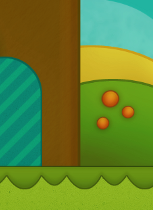
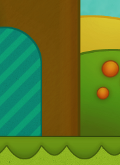
lol

diff --git a/src/affichage/AnimatedGif.java b/src/affichage/AnimatedGif.java
@@ -27,16 +27,6 @@ public class AnimatedGif {
 				} catch (IllegalAccessException ex) {
 				} catch (UnsupportedLookAndFeelException ex) {
 				}
-
-				// JFrame frame = new JFrame("Test");
-				// JPanel j = new JPanel();
-				// frame.setDefaultCloseOperation(JFrame.EXIT_ON_CLOSE);
-				// frame.setLayout(new BorderLayout());
-				// j.add(new PaintPane());
-				// frame.add(j);
-				// frame.pack();
-				// frame.setLocationRelativeTo(null);
-				// frame.setVisible(true);
 			}
 		});
 	}
@@ -72,10 +62,10 @@ public class AnimatedGif {
 
 		@Override
 		protected void paintComponent(Graphics g) {
-			super.paintComponent(g); // This is very important!
+			super.paintComponent(g);
 			Image img = new ImageIcon(getClass().getResource(
 					"/res/fondrobot.png")).getImage();
-			g.drawImage(img, 0, 0, 153, 210, null);
+			g.drawImage(img, 0, 0, 120, 165, null);
 			int x = (getWidth() - image.getIconWidth()) / 2;
 			int y = (getHeight() - image.getIconHeight()) / 2;
 			image.paintIcon(this, g, x, y);

diff --git a/src/affichage/Ecran.java b/src/affichage/Ecran.java
@@ -20,12 +20,12 @@ public class Ecran extends JFrame {
 	private static final long serialVersionUID = 1L;
 	private static final Grille grille = new Grille();
 
-	public Ecran(int nbEx) throws IOException {
+	public Ecran(int nbEx) throws IOException{
 
 		super("House on Tree");
 
-		BufferedImage myImage = ImageIO.read(new File("./res/fond.png"));
-		this.setContentPane(new ImagePanel(myImage));
+		BufferedImage fond1 = ImageIO.read(new File("./res/fond1.png"));
+		this.setContentPane(new ImagePanel(fond1));
 
 		setPreferredSize(new Dimension(725, 790));
 		setResizable(false);
@@ -45,7 +45,7 @@ public class Ecran extends JFrame {
 		Insets insets = contentPane.getInsets();
 		p.setBounds(75, 80, Properties.WIDTH * Properties.SIZE_CELLS, Properties.HEIGHT
 				* Properties.SIZE_CELLS);
-		gif.setBounds(550, 550, 153, 210);
+		gif.setBounds(550, 580, 120, 165);
 
 		createSelecteur(p);
 

diff --git a/src/affichage/Selecteur.java b/src/affichage/Selecteur.java
@@ -36,7 +36,7 @@ public class Selecteur extends JFrame {
 		this.setPreferredSize(new Dimension(200, 600));
 		this.setLocationRelativeTo(getParent());
 		this.setAlwaysOnTop(true);
-		this.setTitle("Menu");
+		this.setTitle("Builder3000™");
 		this.setResizable(false);
 		this.setLayout(new FlowLayout(HEIGHT));
 
